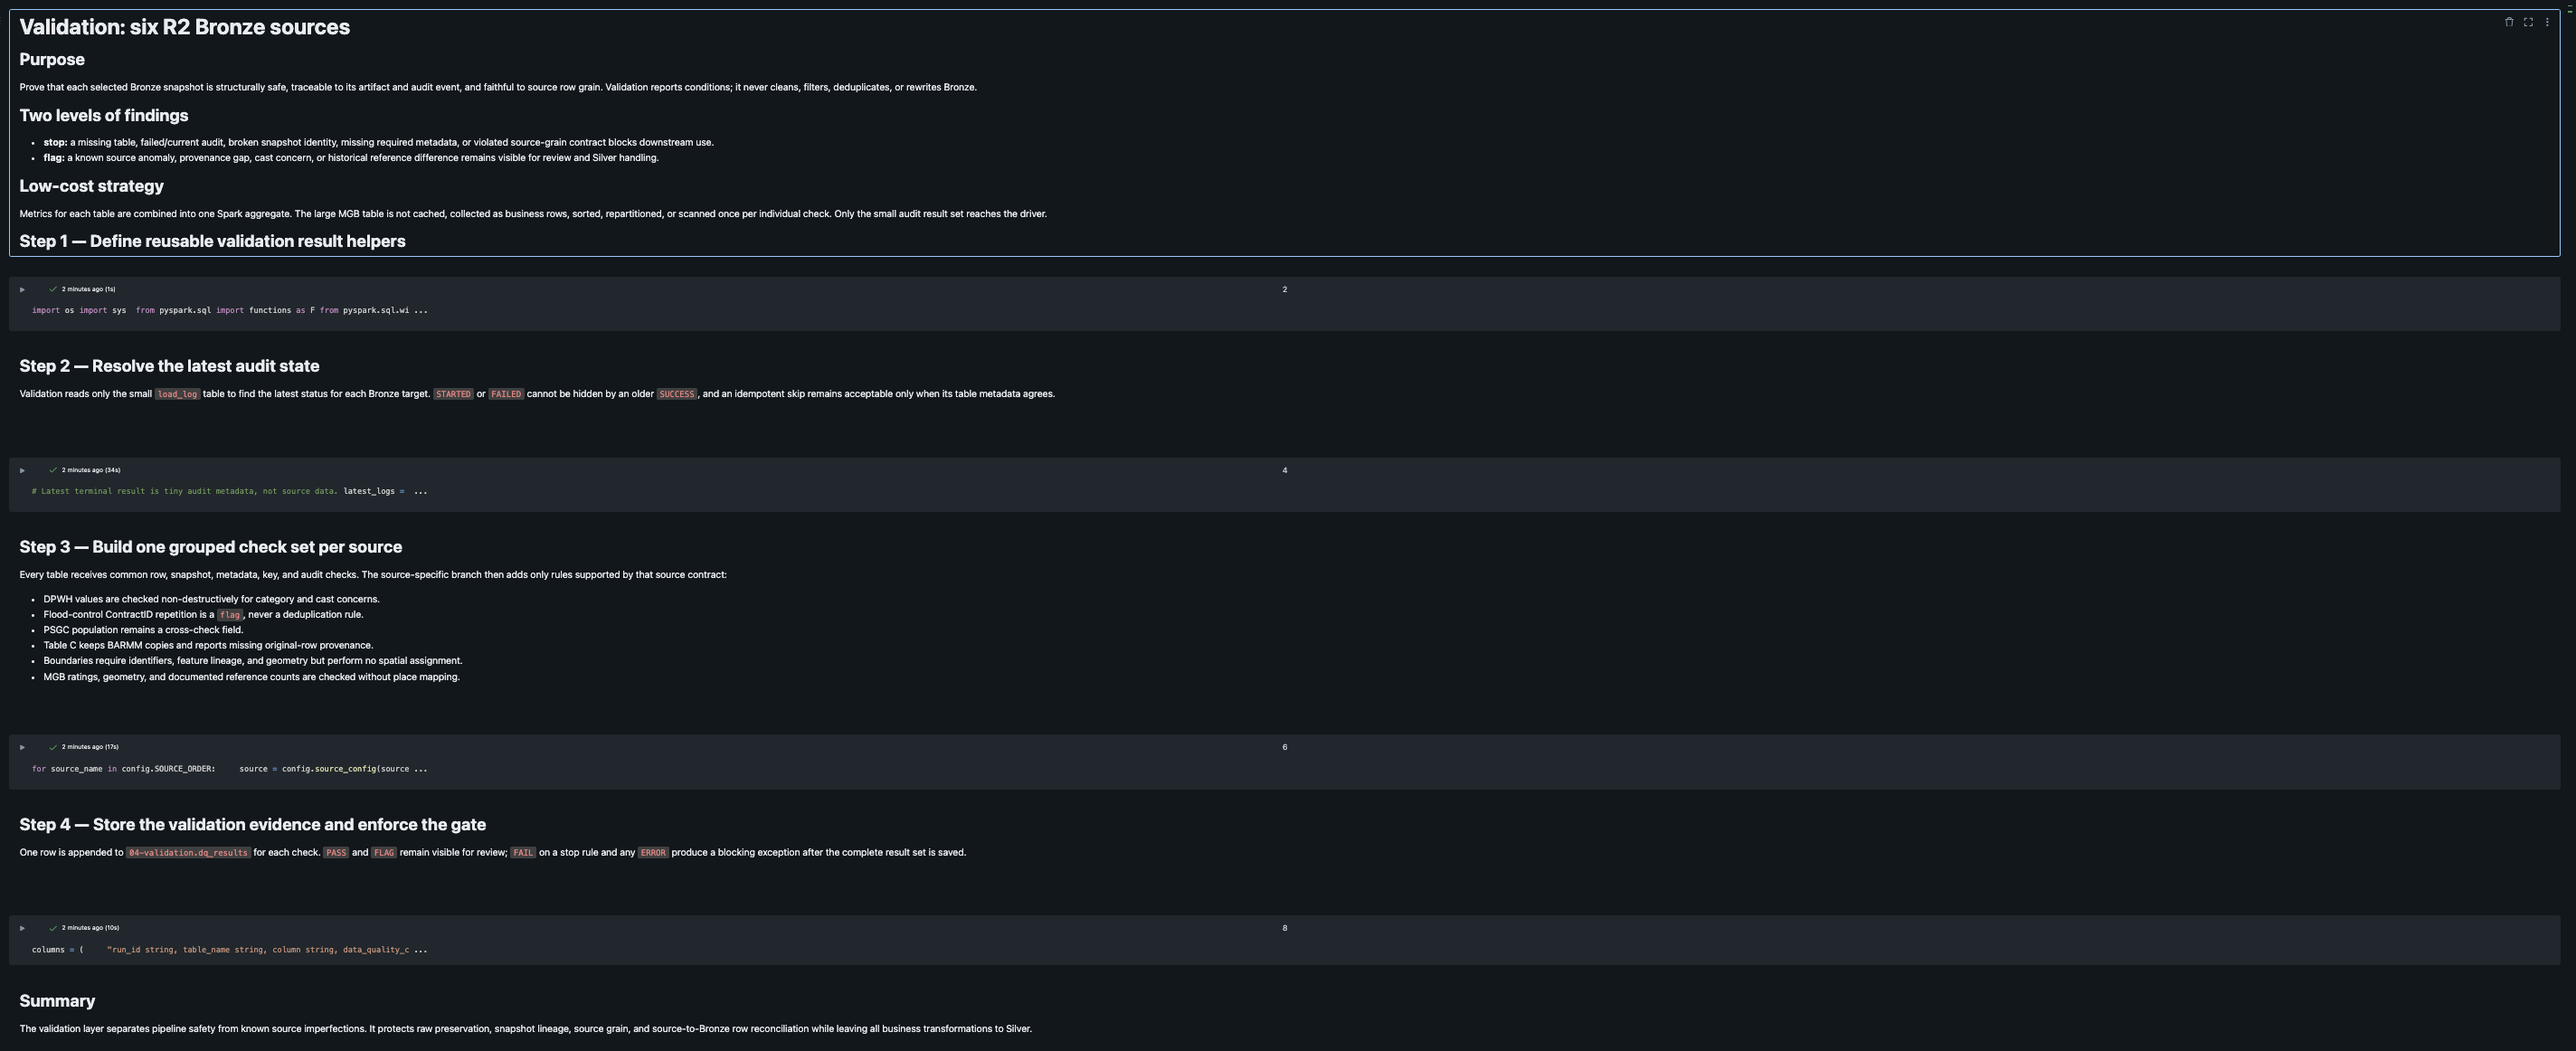
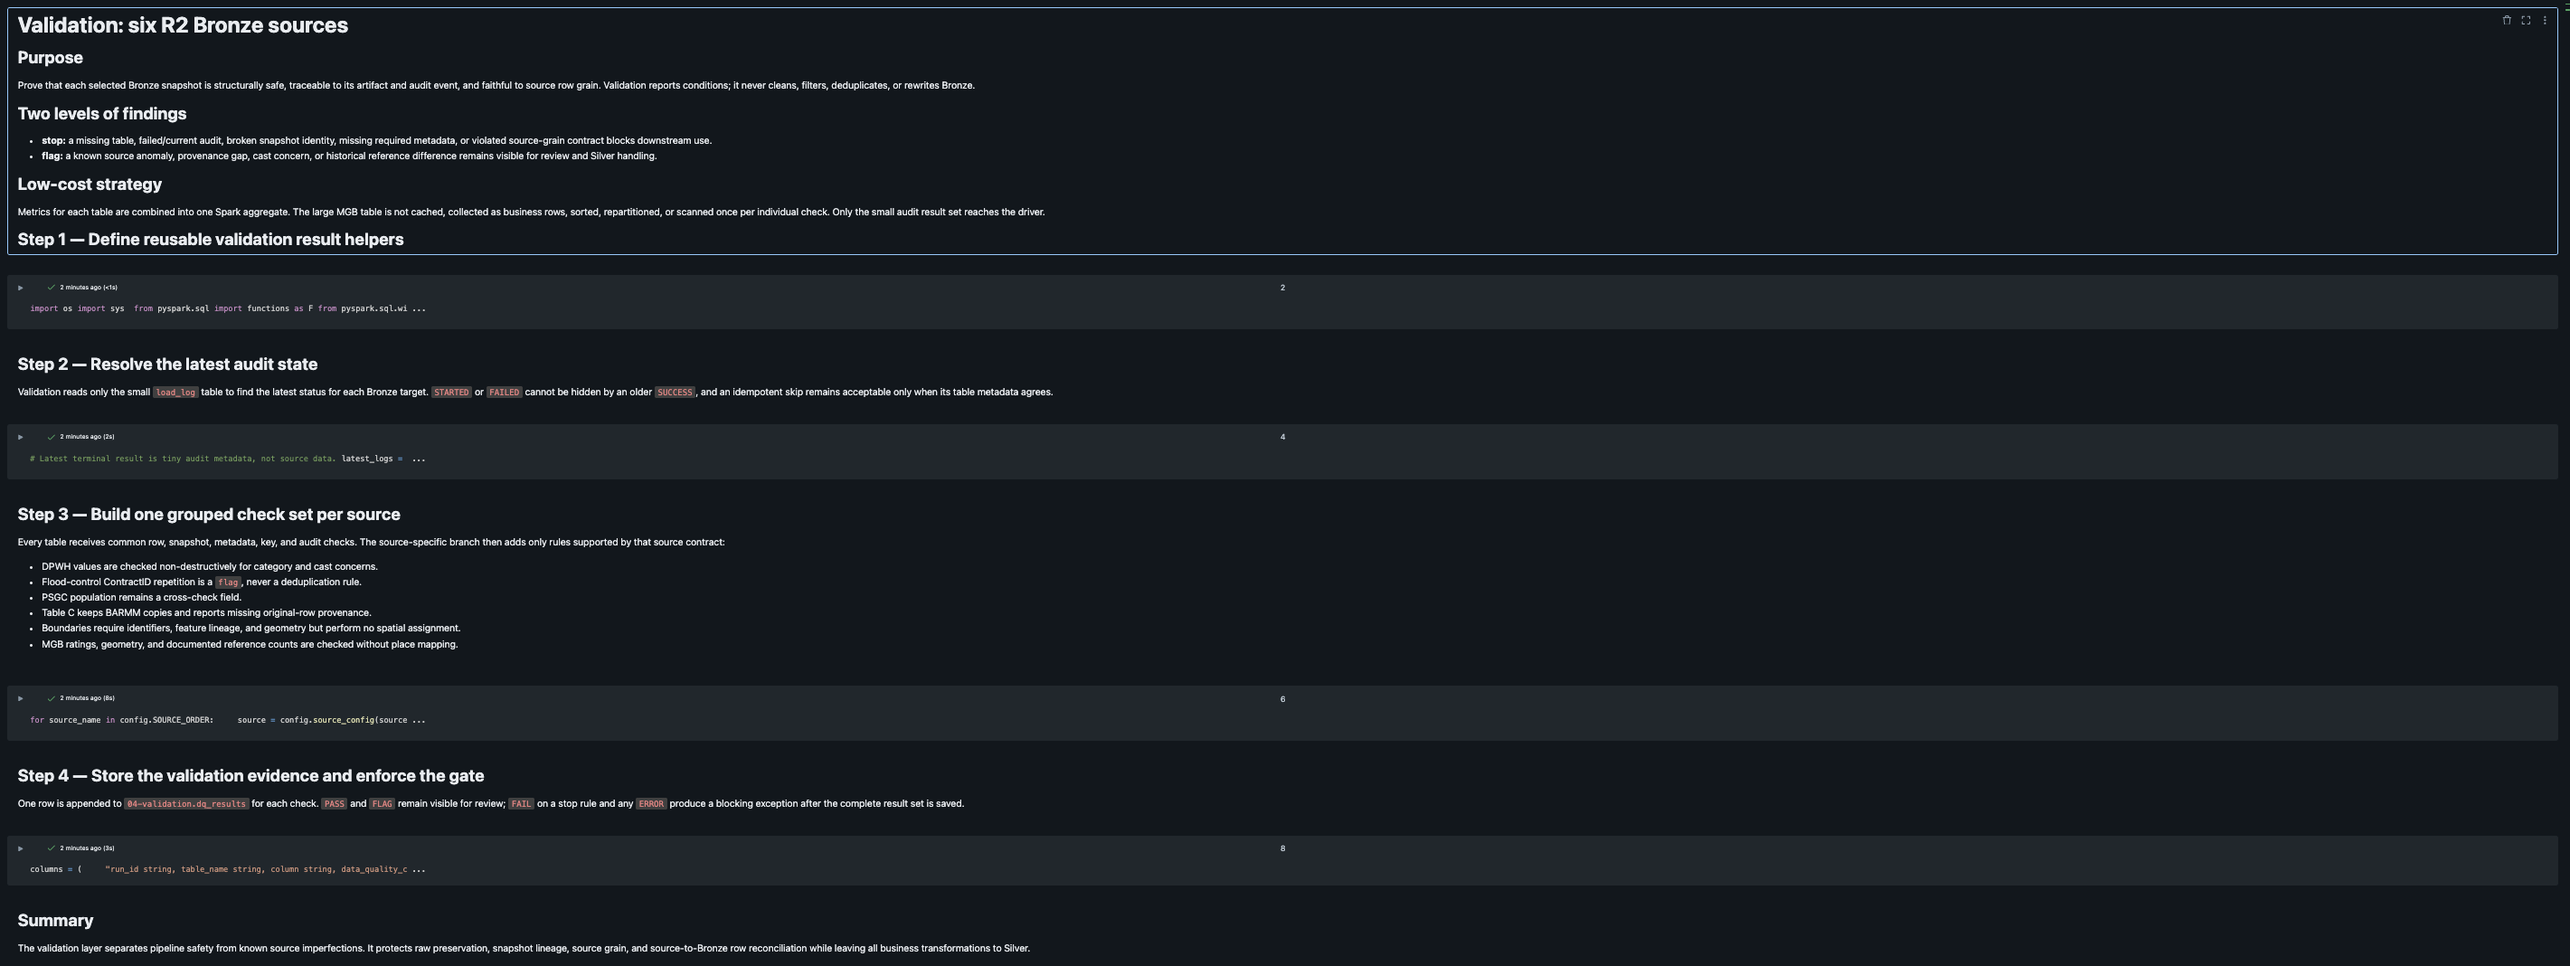
Fix Bronze validation evidence checks

diff --git a/docs/evidence/bronze-r2/README.md b/docs/evidence/bronze-r2/README.md
@@ -260,8 +260,8 @@ Bronze continues preserving the original source values.
 - Blocking checks: all 96 checks with action `stop` passed
 
 The rerun therefore passed the Bronze safety gate with non-blocking findings.
-Store the complete machine-readable follow-up as
-`validation-results-2026-10-05.csv` beside this report.
+The complete machine-readable follow-up is in
+[`validation-results-2026-10-05.csv`](validation-results-2026-10-05.csv).
 
 ### MGB follow-up results
 
